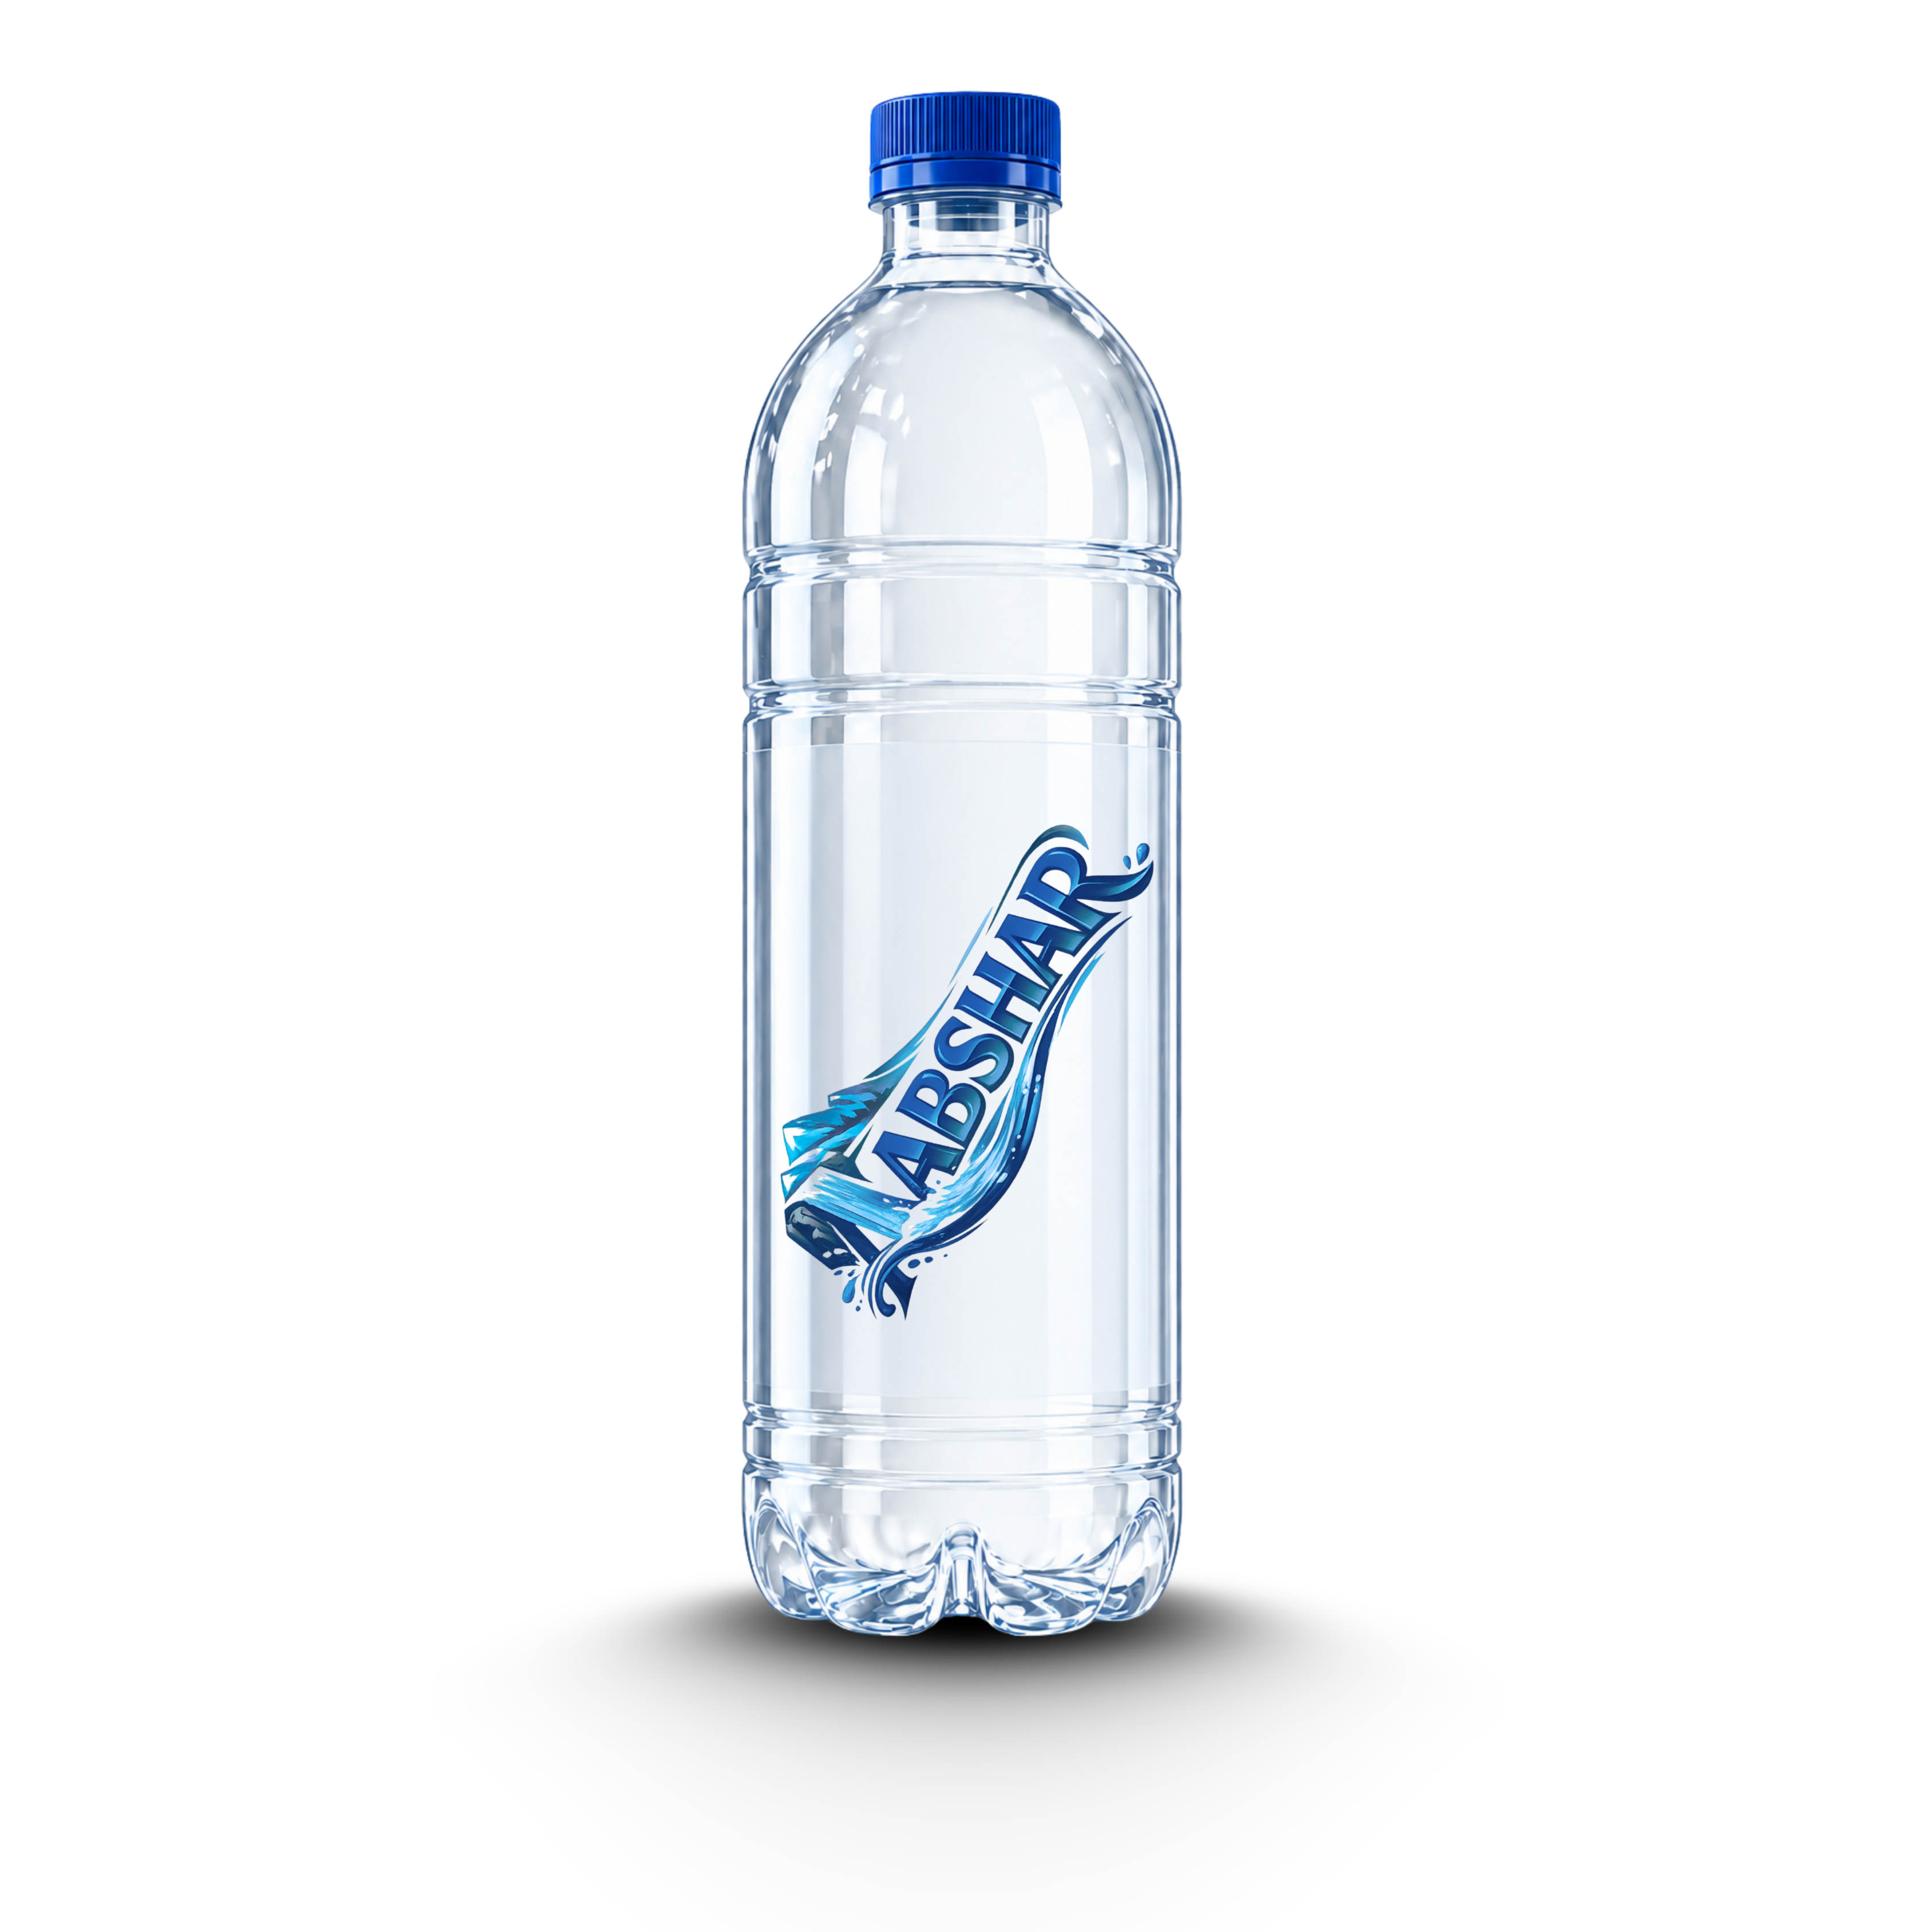
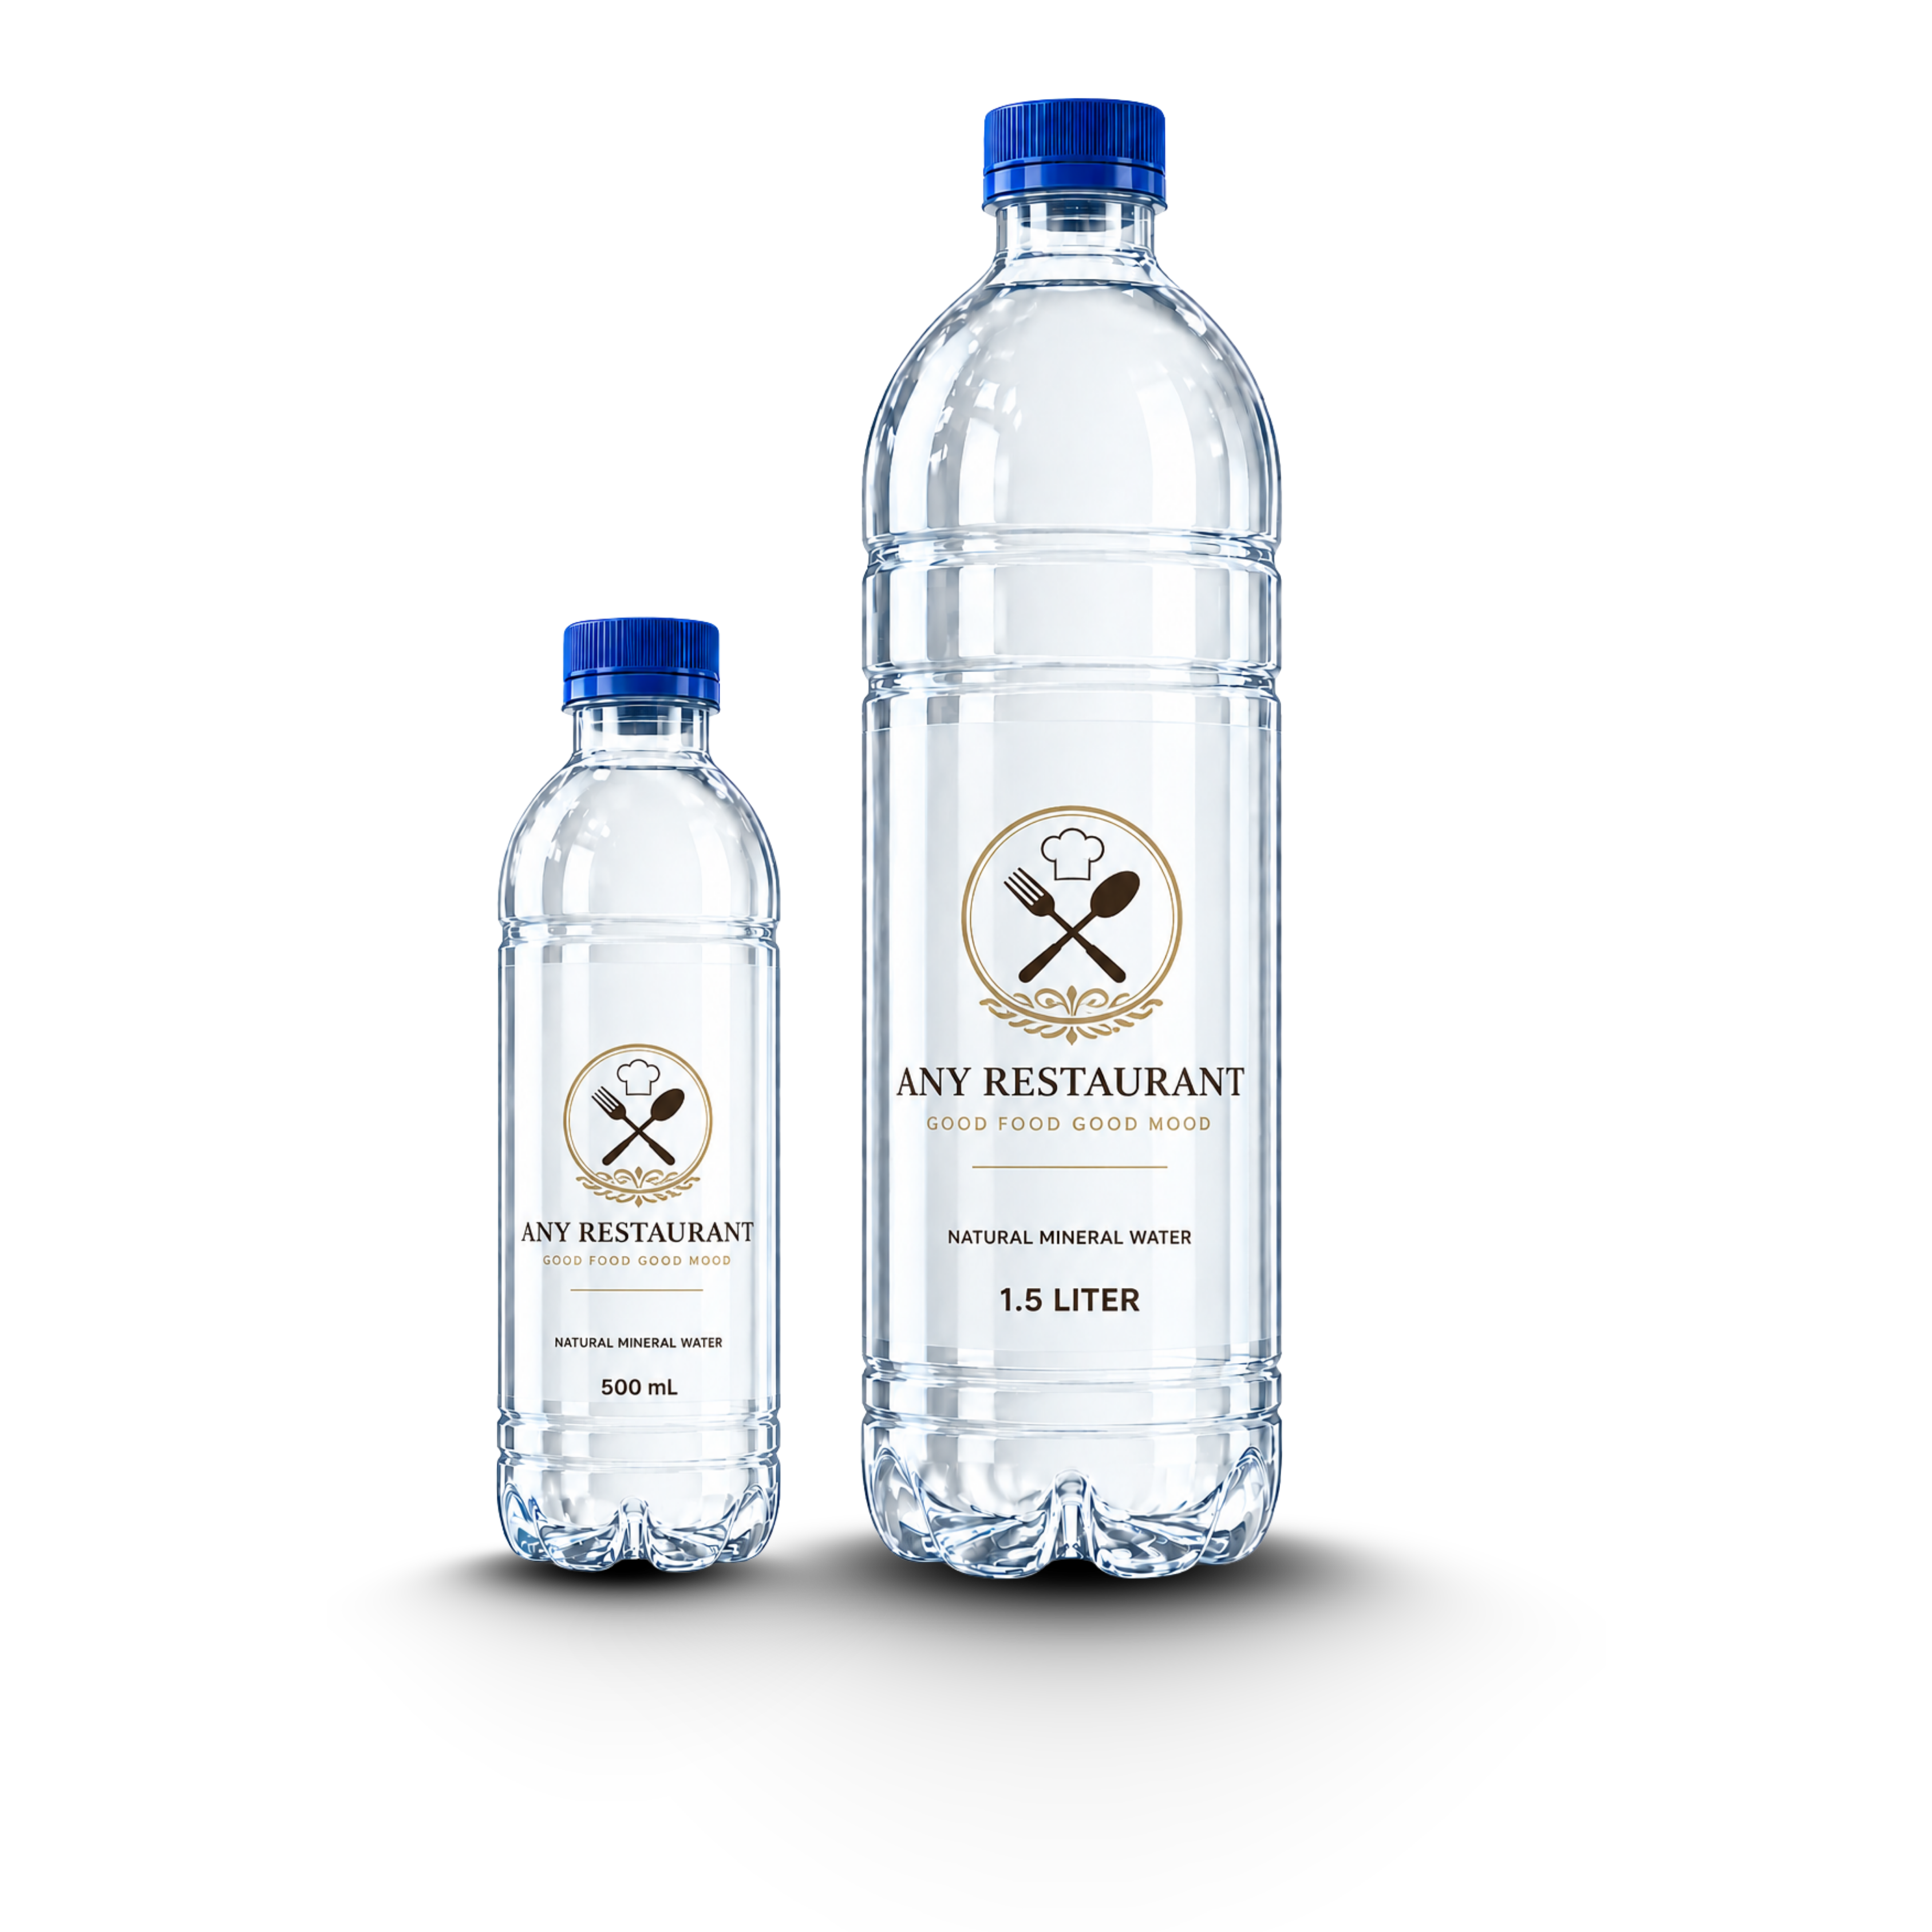
yes

Changed region(s): [[0.2178, 0.0311, 0.7467, 0.9022]]

diff --git a/public/sw.js b/public/sw.js
@@ -1,17 +1,20 @@
-const CACHE_NAME = 'aabshar-cache-v2';
+const CACHE_NAME = 'aabshar-cache-v3';
 const ASSETS_TO_CACHE = [
   '/',
   '/index.html',
   '/src/main.tsx',
   '/src/App.tsx',
   '/src/index.css',
-  '/src/assets/images/regenerated_image_1779783054758.png',
-  '/src/assets/images/regenerated_image_1784927648855.png',
-  '/src/assets/images/abshar_mountain_scenery_1779999755087.png',
-  '/src/assets/images/aabshar_1_5l_bottle_1779790755825.png',
-  '/src/assets/images/regenerated_image_1784659234041.png',
-  '/src/assets/images/regenerated_image_1784930368485.png',
-  '/src/assets/images/nexora_mockup_1779793261776.png'
+  '/src/assets/images/aabshar_brand_logo.png',
+  '/src/assets/images/hero_combined_bottles.png',
+  '/src/assets/images/product_card_500ml.png',
+  '/src/assets/images/product_card_1_5l.png',
+  '/src/assets/images/b2b_gym_card_mockup.png',
+  '/src/assets/images/b2b_riverdale_card_mockup.png',
+  '/src/assets/images/b2b_nexora_card_mockup.png',
+  '/src/assets/images/order_form_500ml.png',
+  '/src/assets/images/order_form_1_5l.png',
+  '/src/assets/images/abshar_mountain_scenery_1779999755087.png'
 ];
 
 self.addEventListener('install', (event) => {

diff --git a/src/components/B2B.tsx b/src/components/B2B.tsx
@@ -21,9 +21,9 @@ import {
 import { motion, AnimatePresence } from 'motion/react';
 
 // Custom generated high-fidelity physical mockup images matching user upload
-import gymMockup from '../assets/images/regenerated_image_1784659234041.png';
-import riverdaleMockup from '../assets/images/aabshar_1_5l_bottle_1779790755825.png';
-import nexoraMockup from '../assets/images/nexora_mockup_1779793261776.png';
+import gymMockup from '../assets/images/b2b_gym_card_mockup.png';
+import riverdaleMockup from '../assets/images/b2b_riverdale_card_mockup.png';
+import nexoraMockup from '../assets/images/b2b_nexora_card_mockup.png';
 
 // Single clean file export with B2B private label segment
 interface B2BProps {

diff --git a/index.html b/index.html
@@ -10,8 +10,8 @@
     <link rel="preconnect" href="https://fonts.googleapis.com" />
     <link rel="preconnect" href="https://fonts.gstatic.com" crossorigin />
     <link rel="stylesheet" href="https://fonts.googleapis.com/css2?family=Playfair+Display:ital,wght@0,400..900;1,400..900&family=Plus+Jakarta+Sans:ital,wght@0,300..800;1,300..800&family=Sora:wght@300;400;500;600;700;800&family=Noto+Nastaliq+Urdu:wght@400..700&display=swap" />
-    <link rel="apple-touch-icon" href="/src/assets/images/regenerated_image_1779783054758.png" />
-    <link rel="preload" href="/src/assets/images/regenerated_image_1784927648855.png" as="image" type="image/png" fetchpriority="high" />
+    <link rel="apple-touch-icon" href="/src/assets/images/aabshar_brand_logo.png" />
+    <link rel="preload" href="/src/assets/images/hero_combined_bottles.png" as="image" type="image/png" fetchpriority="high" />
     <link rel="preload" href="/src/assets/images/abshar_mountain_scenery_1779999755087.png" as="image" type="image/png" />
     <link rel="manifest" href="/manifest.json" />
     <link rel="canonical" href="https://aabshar.org" />

diff --git a/src/components/OrderForm.tsx b/src/components/OrderForm.tsx
@@ -1,8 +1,8 @@
 import React, { useState, useEffect } from 'react';
 import { ShoppingCart, CheckCircle2, Phone, User, Landmark, HelpCircle, Sparkles, Building2 } from 'lucide-react';
 import { motion, AnimatePresence } from 'motion/react';
-import bottleImage500ml from '../assets/images/regenerated_image_1784930368485.png';
-import bottleImage15L from '../assets/images/aabshar_1_5l_bottle_1779790755825.png';
+import bottleImage500ml from '../assets/images/order_form_500ml.png';
+import bottleImage15L from '../assets/images/order_form_1_5l.png';
 
 interface OrderFormProps {
   selectedSize: string;

diff --git a/src/components/Products.tsx b/src/components/Products.tsx
@@ -1,7 +1,7 @@
 import { ArrowRight, ShoppingCart, Sparkles, CheckCircle2 } from 'lucide-react';
 import { motion } from 'motion/react';
-import bottleImage15L from '../assets/images/aabshar_1_5l_bottle_1779790755825.png';
-import bottleImage500ml from '../assets/images/regenerated_image_1784659234041.png';
+import bottleImage15L from '../assets/images/product_card_1_5l.png';
+import bottleImage500ml from '../assets/images/product_card_500ml.png';
 
 interface ProductsProps {
   onOrderProduct: (size: string) => void;

diff --git a/src/components/Footer.tsx b/src/components/Footer.tsx
@@ -1,5 +1,5 @@
 import { Facebook, Instagram, MapPin, Phone, Mail, Clock } from 'lucide-react';
-import aabsharLogo from '../assets/images/regenerated_image_1779783054758.png';
+import aabsharLogo from '../assets/images/aabshar_brand_logo.png';
 
 interface FooterProps {
   onLinkClick: (href: string) => void;

diff --git a/src/components/Hero.tsx b/src/components/Hero.tsx
@@ -1,6 +1,6 @@
 import { ArrowRight, Sparkles, ShieldCheck, Truck } from 'lucide-react';
 import { motion } from 'motion/react';
-import combinedBottlesImage from '../assets/images/regenerated_image_1784927648855.png';
+import combinedBottlesImage from '../assets/images/hero_combined_bottles.png';
 
 interface HeroProps {
   onOrderClick: () => void;

diff --git a/src/components/Navbar.tsx b/src/components/Navbar.tsx
@@ -1,7 +1,7 @@
 import { useState, useEffect } from 'react';
 import { Menu, X, Droplets, Phone, Mail, MapPin, Clock, Info, ChevronRight, Home, Package, Briefcase, Users } from 'lucide-react';
 import { motion, AnimatePresence } from 'motion/react';
-import aabsharLogo from '../assets/images/regenerated_image_1779783054758.png';
+import aabsharLogo from '../assets/images/aabshar_brand_logo.png';
 
 interface NavbarProps {
   onOrderClick: () => void;